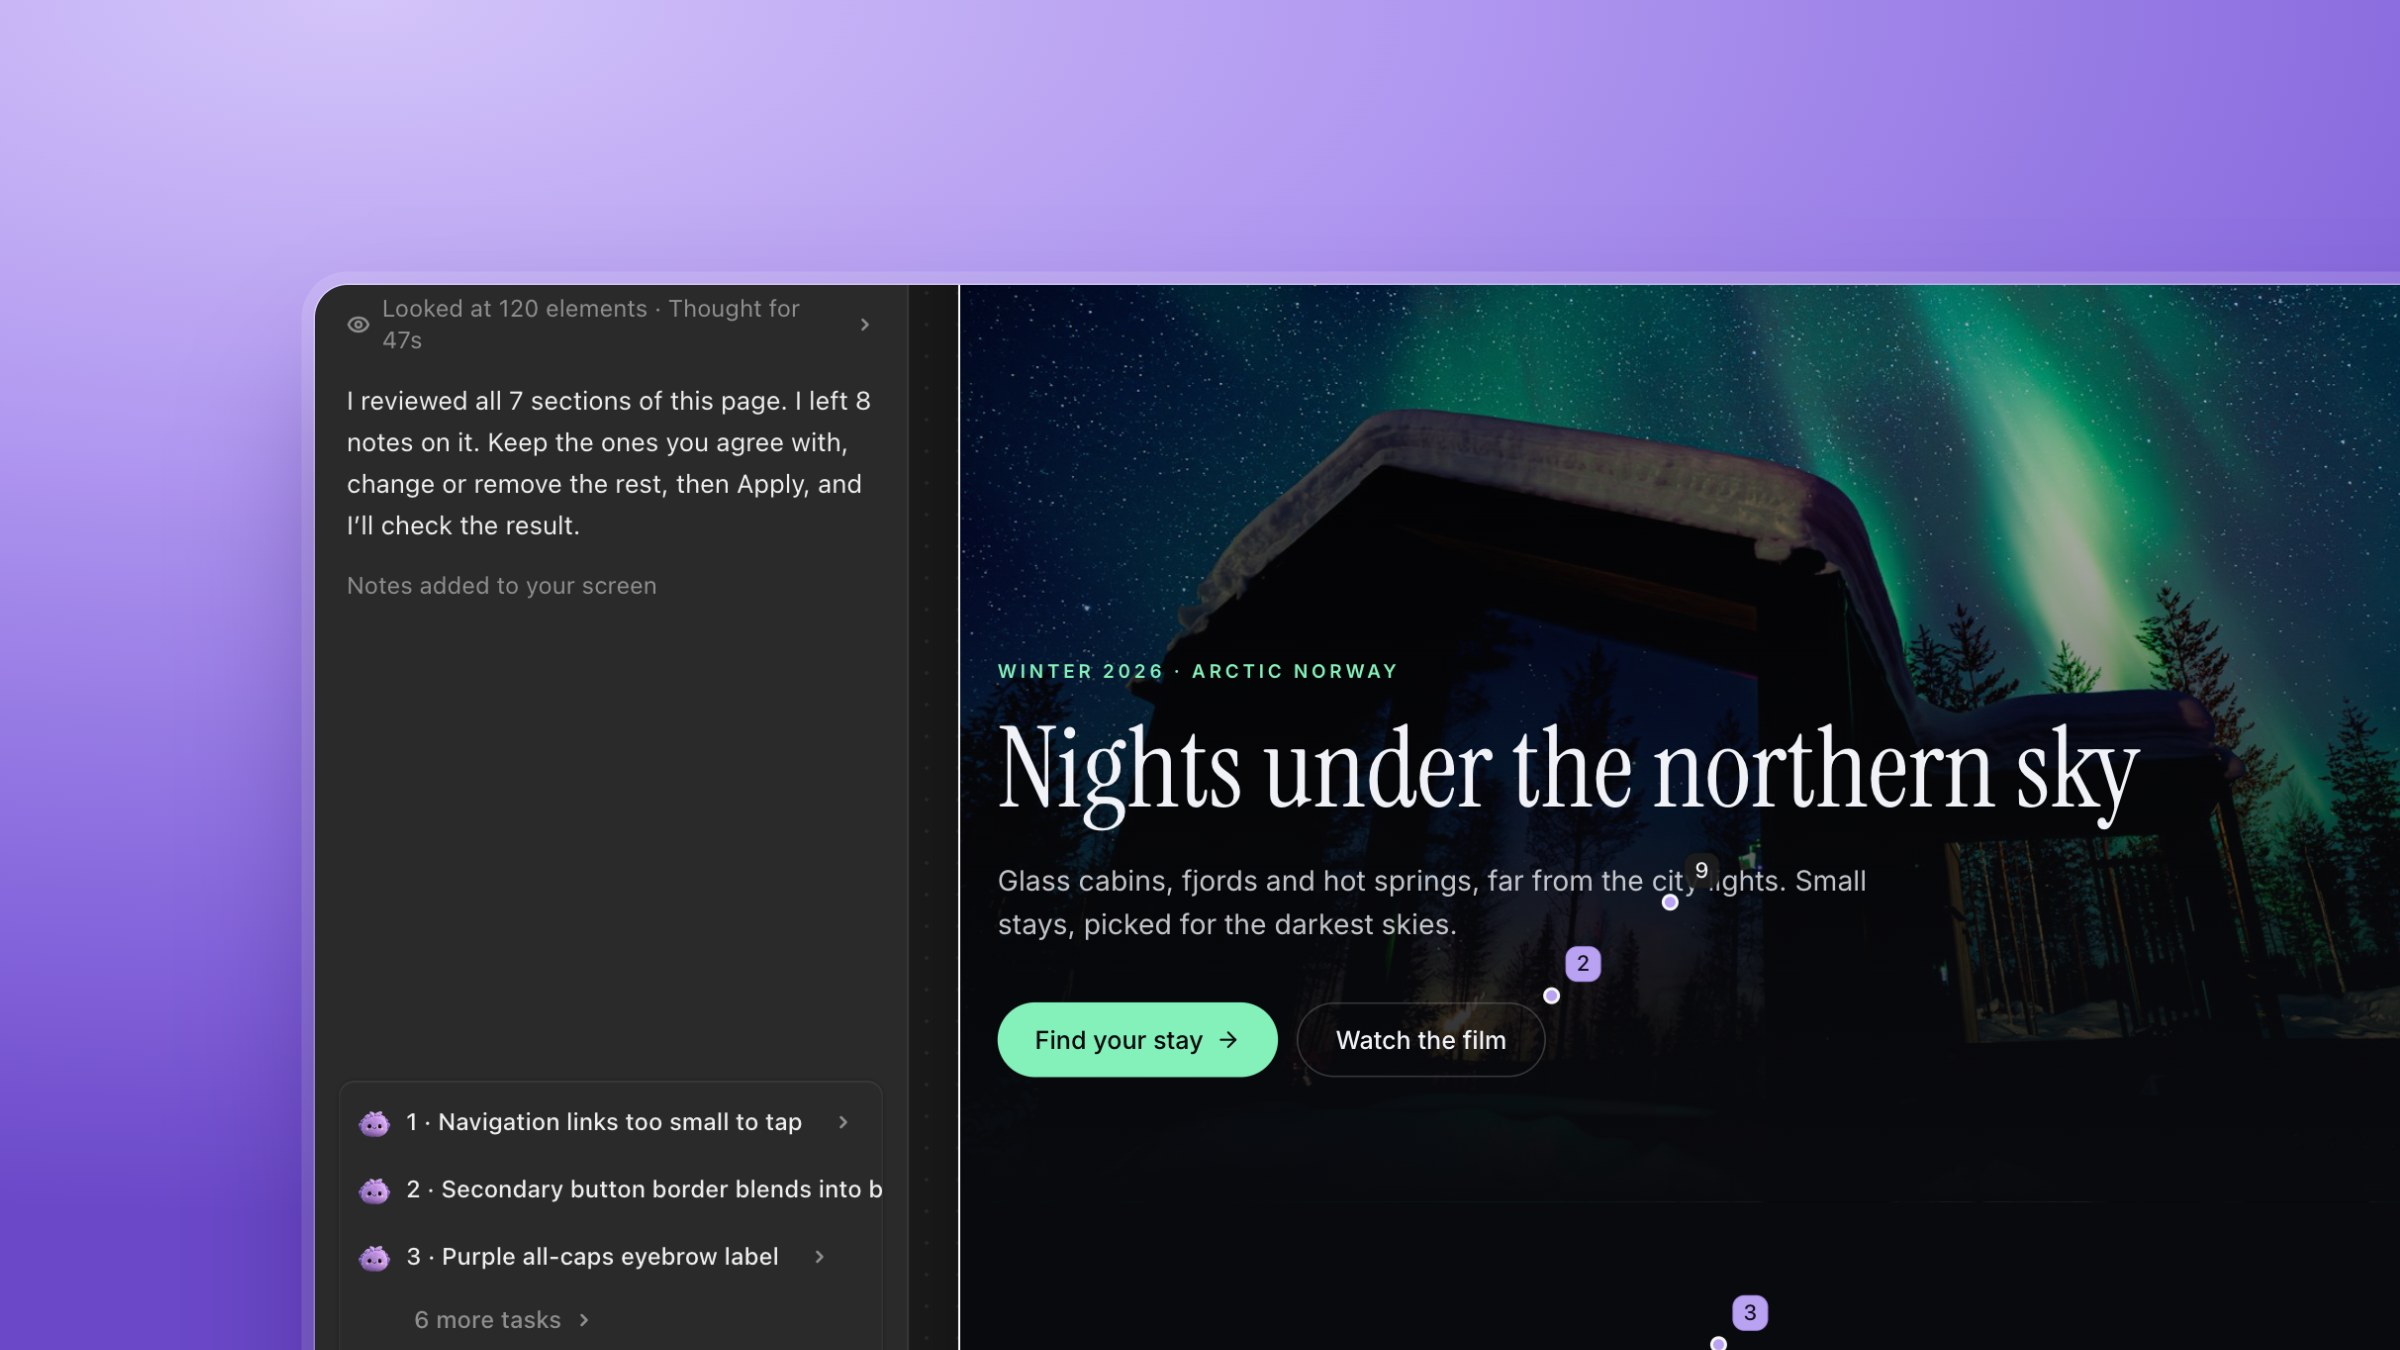
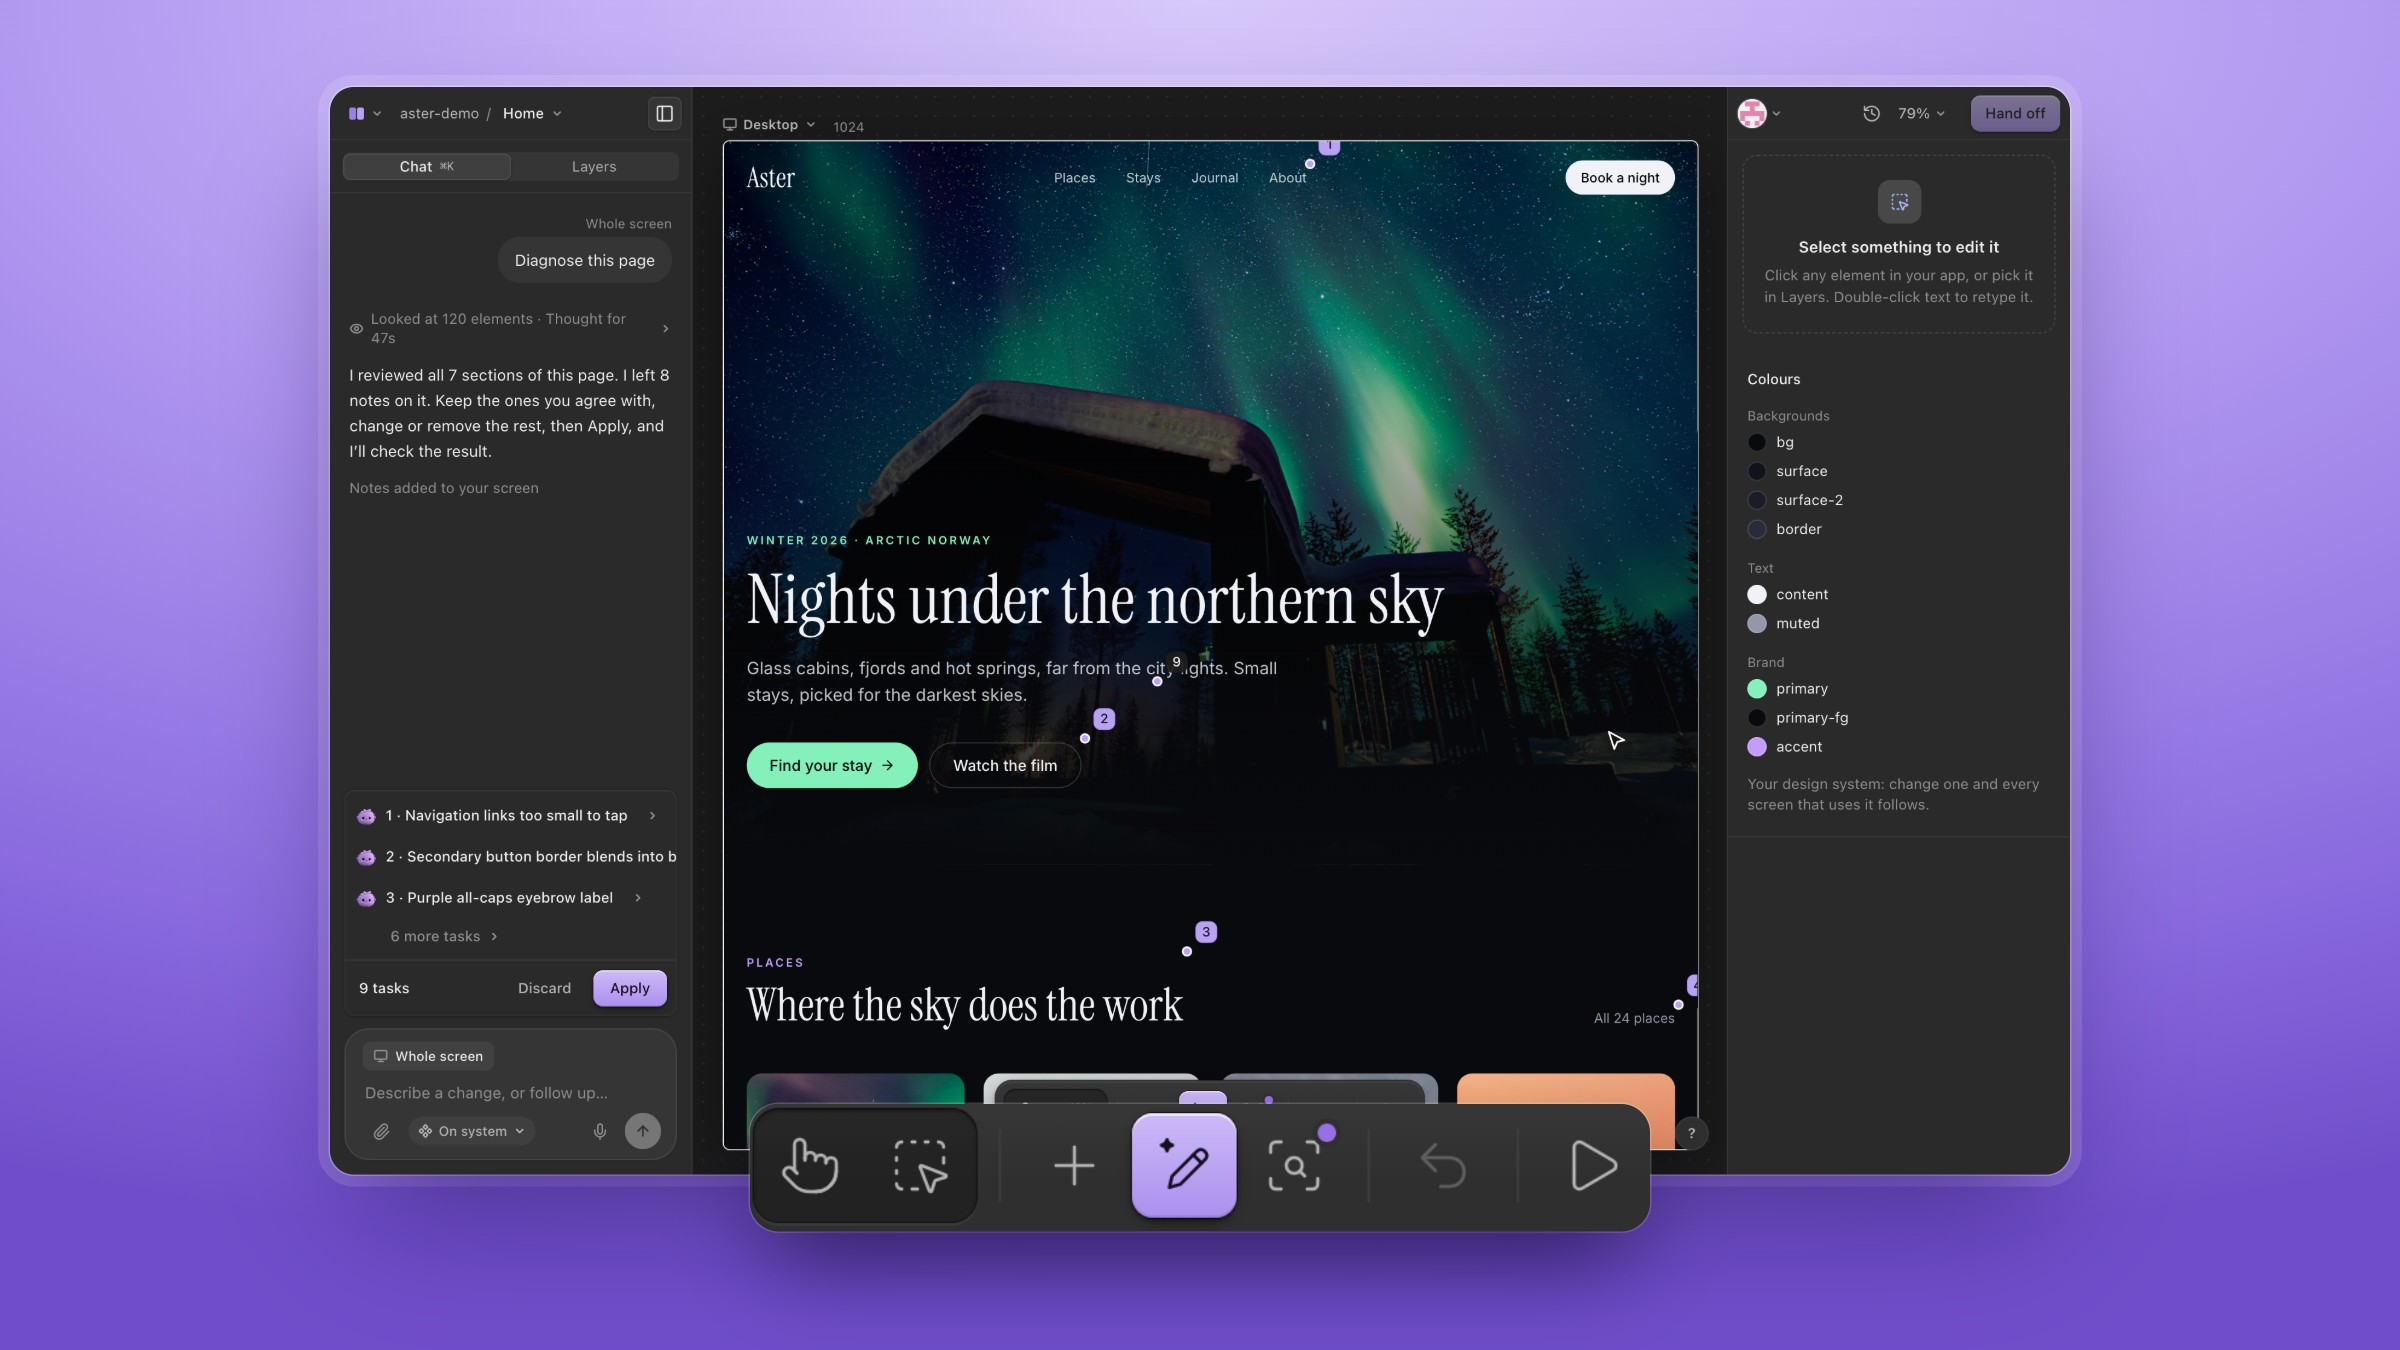
Tovi thumbnail: full editor window with the toolbar enlarged

diff --git a/index.html b/index.html
@@ -23,7 +23,7 @@
 <link rel="preload" href="assets/fonts/InterDisplay-400.woff2" as="font" type="font/woff2" crossorigin>
 <link rel="preload" href="assets/fonts/Inter-400.woff2" as="font" type="font/woff2" crossorigin>
 <script>document.documentElement.classList.add('js-motion')</script>
-<link rel="stylesheet" href="assets/styles.css?v=20261121f">
+<link rel="stylesheet" href="assets/styles.css?v=20261121g">
 </head>
 <body>
 <header class="site-header appear" style="--from-y:-16px;--delay:.1s">
@@ -49,7 +49,7 @@
 </header>
 <main>
   <section class="hero">
-    <img class="hero-bg" src="assets/images/rmx4Vy7zMNJKXeLhiIG00IlRLk.png?v=20261121f" alt="">
+    <img class="hero-bg" src="assets/images/rmx4Vy7zMNJKXeLhiIG00IlRLk.png?v=20261121g" alt="">
     <div class="hero-inner">
       <img class="avatar appear" style="--delay:.15s" src="assets/images/3a0TsaIyMQbZR7j9urEglnDvk4.png" alt="Tobi John Bello" width="96" height="96">
       <div class="hero-lines">
@@ -82,7 +82,7 @@
     </div>
     <div class="projects">
       <a class="project reveal scale" href="work/tovi/">
-        <div class="project-img tovi"><img src="assets/images/tovi/tovi-thumb.jpg?v=3" alt="" loading="lazy"></div>
+        <div class="project-img tovi"><img src="assets/images/tovi/tovi-thumb.jpg?v=4" alt="" loading="lazy"></div>
         <div class="project-body">
           <div class="tags"><span class="tag">AI Product</span><span class="tag">Design Engineering</span></div>
           <div class="project-text"><h3>Tovi: AI That Fixes the Real Product</h3><p>Designing and building an AI design tool that audits and fixes a team’s real product, then opens a pull request</p></div>
@@ -197,7 +197,7 @@
 
   <section class="banner">
     <div class="banner-card reveal">
-      <img class="banner-bg" src="assets/images/rmx4Vy7zMNJKXeLhiIG00IlRLk.png?v=20261121f" alt="" loading="lazy">
+      <img class="banner-bg" src="assets/images/rmx4Vy7zMNJKXeLhiIG00IlRLk.png?v=20261121g" alt="" loading="lazy">
       <div class="banner-overlay"></div>
       <div class="banner-content">
         <div class="banner-title">
@@ -219,6 +219,6 @@
     </div>
   </div>
 </footer>
-<script src="assets/site.js?v=20261121f"></script>
+<script src="assets/site.js?v=20261121g"></script>
 </body>
 </html>

diff --git a/assets/styles.css b/assets/styles.css
@@ -374,7 +374,7 @@ section[id] { scroll-margin-top: 140px; }
 /* Tovi case study: full-frame demo video and screenshots (never crop the editor's bottom toolbar) */
 .case-cover.tovi-video { aspect-ratio: 16 / 10; height: auto; object-fit: contain; background: #121212; display: block; }
 .project-img.tovi { background: #9D80E6; }
-.project-img.tovi img { object-fit: cover; object-position: 50% 50%; }
+.project-img.tovi img { object-fit: cover; object-position: 50% 100%; }
 .rt > .video-file { margin-top: 32px; border-radius: 12px; overflow: hidden; background: #121212; }
 .rt > .video-file video { display: block; width: 100%; height: auto; aspect-ratio: 16 / 10; }
 .rt .diff { margin: 32px 0 0; border: 1px solid #2a2a2a; border-radius: 12px; overflow: hidden; background: #111; }

diff --git a/work/augmented-reality-try-on/index.html b/work/augmented-reality-try-on/index.html
@@ -23,7 +23,7 @@
 <link rel="preload" href="../../assets/fonts/InterDisplay-400.woff2" as="font" type="font/woff2" crossorigin>
 <link rel="preload" href="../../assets/fonts/Inter-400.woff2" as="font" type="font/woff2" crossorigin>
 <script>document.documentElement.classList.add('js-motion')</script>
-<link rel="stylesheet" href="../../assets/styles.css?v=20261121f">
+<link rel="stylesheet" href="../../assets/styles.css?v=20261121g">
 </head>
 <body>
 <header class="site-header appear" style="--from-y:-1000px;--from-o:0;--delay:1.3s;--dur:1s">
@@ -74,6 +74,6 @@
     </div>
   </div>
 </footer>
-<script src="../../assets/site.js?v=20261121f"></script>
+<script src="../../assets/site.js?v=20261121g"></script>
 </body>
 </html>

diff --git a/work/gotedo/index.html b/work/gotedo/index.html
@@ -23,7 +23,7 @@
 <link rel="preload" href="../../assets/fonts/InterDisplay-400.woff2" as="font" type="font/woff2" crossorigin>
 <link rel="preload" href="../../assets/fonts/Inter-400.woff2" as="font" type="font/woff2" crossorigin>
 <script>document.documentElement.classList.add('js-motion')</script>
-<link rel="stylesheet" href="../../assets/styles.css?v=20261121f">
+<link rel="stylesheet" href="../../assets/styles.css?v=20261121g">
 </head>
 <body>
 <header class="site-header appear" style="--from-y:-1000px;--from-o:0;--delay:1.3s;--dur:1s">
@@ -74,6 +74,6 @@
     </div>
   </div>
 </footer>
-<script src="../../assets/site.js?v=20261121f"></script>
+<script src="../../assets/site.js?v=20261121g"></script>
 </body>
 </html>

diff --git a/work/no-code-page-builder/index.html b/work/no-code-page-builder/index.html
@@ -23,7 +23,7 @@
 <link rel="preload" href="../../assets/fonts/InterDisplay-400.woff2" as="font" type="font/woff2" crossorigin>
 <link rel="preload" href="../../assets/fonts/Inter-400.woff2" as="font" type="font/woff2" crossorigin>
 <script>document.documentElement.classList.add('js-motion')</script>
-<link rel="stylesheet" href="../../assets/styles.css?v=20261121f">
+<link rel="stylesheet" href="../../assets/styles.css?v=20261121g">
 </head>
 <body>
 <header class="site-header appear" style="--from-y:-1000px;--from-o:0;--delay:1.3s;--dur:1s">
@@ -74,6 +74,6 @@
     </div>
   </div>
 </footer>
-<script src="../../assets/site.js?v=20261121f"></script>
+<script src="../../assets/site.js?v=20261121g"></script>
 </body>
 </html>

diff --git a/work/tovi/index.html b/work/tovi/index.html
@@ -23,7 +23,7 @@
 <link rel="preload" href="../../assets/fonts/InterDisplay-400.woff2" as="font" type="font/woff2" crossorigin>
 <link rel="preload" href="../../assets/fonts/Inter-400.woff2" as="font" type="font/woff2" crossorigin>
 <script>document.documentElement.classList.add('js-motion')</script>
-<link rel="stylesheet" href="../../assets/styles.css?v=20261121f">
+<link rel="stylesheet" href="../../assets/styles.css?v=20261121g">
 </head>
 <body>
 <header class="site-header appear" style="--from-y:-1000px;--from-o:0;--delay:1.3s;--dur:1s">
@@ -74,6 +74,6 @@
     </div>
   </div>
 </footer>
-<script src="../../assets/site.js?v=20261121f"></script>
+<script src="../../assets/site.js?v=20261121g"></script>
 </body>
 </html>
